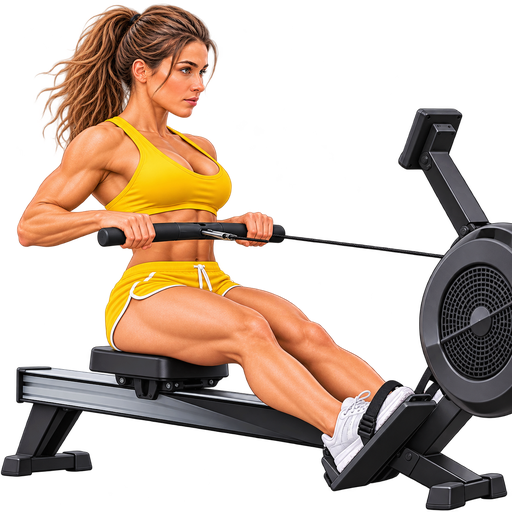
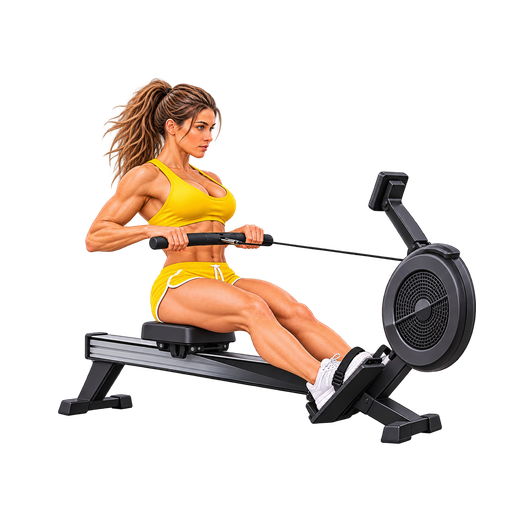
Version 1.6.23 - Supprimer une séance de l'historique (purge de la sauvegarde Drive), nouvelle icône du rameur
Claude-Session: https://claude.ai/code/session_018mcED6hExZoYpNzECwrRGX

diff --git a/app.js b/app.js
@@ -1484,6 +1484,7 @@ function injectSessionModalHtml() {
         <h3 id="modal-session-title" class="modal-title">Séance</h3>
         <p id="modal-session-meta" class="modal-meta"></p>
         <button id="modal-edit-btn" class="btn">Modifier la séance</button>
+        <button id="modal-delete-btn" class="btn btn-danger" onclick="deleteSelectedSession()">Supprimer la séance</button>
         <button onclick="closeSessionModal()" class="btn btn-secondary">Fermer</button>
       </div>
     </div>
@@ -1509,6 +1510,40 @@ function injectSessionModalHtml() {
       alert(`Séance ${sessionToEdit.type} du ${formatDate(sessionToEdit.date)} chargée dans le formulaire. Corrigez-la puis validez, ou annulez : l'originale reste intacte tant que vous n'avez pas validé.`);
     }
   });
+}
+
+// Suppression d'une séance de l'historique (essai de validation, saisie par erreur...).
+// Les dernières charges sont recalculées, la prochaine séance repart de l'historique restant, et la
+// sauvegarde Google Drive est mise à jour : la séance supprimée y est retirée (voir DRIVE_DELETED_KEY).
+function deleteSelectedSession() {
+  if (selectedSessionIndex === null) return;
+  const idx = selectedSessionIndex;
+  const session = state.history[idx];
+  if (!session) return;
+  const driveOn = isDriveWanted() || !!getDriveToken();
+  if (!confirm(`Supprimer définitivement la séance ${session.type} du ${formatDate(session.date)} ?` + (driveOn ? '\nElle sera aussi retirée de la sauvegarde Google Drive.' : ''))) return;
+
+  state.history.splice(idx, 1);
+  if (session.id !== undefined && session.id !== null) rememberDeletedSessionId(session.id);
+
+  // Dernières charges : on repart de l'historique restant pour les exercices de la séance supprimée
+  if (!state.lastWeights) state.lastWeights = {};
+  (session.exercises || []).forEach(ex => {
+    if (isCardioName(ex.name)) return;
+    delete state.lastWeights[ex.name];
+    state.history.forEach(h => {
+      const e = (h.exercises || []).find(x => x.name === ex.name);
+      if (e && Array.isArray(e.sets)) e.sets.filter(isPerformedSet).forEach(st => { state.lastWeights[ex.name] = st.weight; });
+    });
+  });
+
+  updateNextTypeFromHistory();
+  saveState();
+  backupToDrive();
+  closeSessionModal();
+  renderHistory();
+  renderCharts();
+  displayDeloadNotificationIfNeeded();
 }
 
 function openSessionModal(index) {
@@ -2873,10 +2908,20 @@ async function downloadDriveBackup(accessToken, fileId) {
 }
 
 // Vrai si la sauvegarde du Drive ne contient aucune séance absente de cet appareil (on peut alors l'écraser sans rien perdre).
+// Séances supprimées volontairement dans l'historique et pas encore retirées de la sauvegarde Drive.
+const DRIVE_DELETED_KEY = 'h49_drive_deleted_ids';
+function getDeletedSessionIds() {
+  try { const a = JSON.parse(localStorage.getItem(DRIVE_DELETED_KEY) || '[]'); return Array.isArray(a) ? a : []; } catch (e) { return []; }
+}
+function rememberDeletedSessionId(id) {
+  try { const a = getDeletedSessionIds(); if (!a.includes(id)) a.push(id); localStorage.setItem(DRIVE_DELETED_KEY, JSON.stringify(a)); } catch (e) { /* ignoré */ }
+}
+
 function driveRemoteIsContainedInLocal(remote) {
   if (!remote || !Array.isArray(remote.history) || !state || !Array.isArray(state.history)) return false;
   const local = new Set(state.history.map(h => h && h.id));
-  return remote.history.every(h => h && local.has(h.id));
+  const deleted = new Set(getDeletedSessionIds()); // supprimées exprès : ce n'est pas un conflit, la sauvegarde doit les purger
+  return remote.history.every(h => h && (local.has(h.id) || deleted.has(h.id)));
 }
 
 // Écrit la sauvegarde : met à jour le fichier existant (fileId) ou le crée ; renvoie la réponse de Google.
@@ -2955,6 +3000,7 @@ async function syncDriveBackup() {
     clearDriveError();
     localStorage.setItem(DRIVE_LAST_HASH_KEY, driveHash(snapshot));
     localStorage.setItem(DRIVE_LAST_BACKUP_KEY, new Date().toISOString());
+    try { localStorage.removeItem(DRIVE_DELETED_KEY); } catch (e) { /* ignoré */ }
     return { ok: true };
   } catch (e) {
     console.warn('Drive : envoi de la sauvegarde interrompu', e);

diff --git a/style.css b/style.css
@@ -224,6 +224,7 @@ nav button.active.has-update::after { right: 5px; top: 6px; }
 .btn { width: 100%; height: 56px; margin-top: 10px; padding: 0 16px; display: flex; align-items: center; justify-content: center; background: var(--primary-strong); color: var(--on-strong); border: none; border-radius: 28px; box-shadow: var(--sh-btn); font-size: 1.0625rem; font-weight: 700; cursor: pointer; }
 .btn:active { opacity: 0.8; }
 .btn-secondary { height: 52px; margin-top: 8px; background: var(--fill); color: var(--text); border: none; box-shadow: none; font-weight: 600; }
+.btn-danger { height: 52px; margin-top: 8px; background: var(--fill); color: var(--danger); border: none; box-shadow: none; font-weight: 600; }
 
 /* Champs */
 select.filter-select { width: 100%; height: 52px; margin-bottom: 8px; padding: 0 20px; background: var(--fill); border: none; border-radius: var(--radius-field); color: var(--text); font-size: 0.9425rem; }

diff --git a/sw.js b/sw.js
@@ -2,7 +2,7 @@
 // APP_VERSION doit être incrémenté à chaque release (en même temps que
 // manifest.json) : le navigateur ne réinstalle le service worker que si
 // le contenu de ce fichier change.
-const APP_VERSION = '1.6.22';
+const APP_VERSION = '1.6.23';
 const CACHE_NAME = 'suivi-fitness-' + APP_VERSION;
 const ASSETS = [
   './',

diff --git a/tests/test_supprimer_seance.py b/tests/test_supprimer_seance.py
@@ -1,0 +1,72 @@
+"""Suppression d'une séance de l'historique : l'historique, les dernières charges et la sauvegarde Google Drive suivent."""
+import json, sys
+from harness import *
+from drive_mock import FakeDrive
+import test_drive_sauvegarde_helpers as H
+from test_drive_sauvegarde_helpers import run, VALID, FOLDER, BKID, N, DATA, local_state
+
+res = []
+
+
+def check(name, ok, extra=''):
+    ok = bool(ok); res.append(ok)
+    print(('OK   ' if ok else 'ÉCHEC'), name, str(extra)[:230])
+
+
+with Srv() as base, sync_playwright() as p:
+    br = p.chromium.launch()
+    d0 = FakeDrive(folder=True, backup=DATA)
+    ctx, pg, dlg = run(br, base, d0, seeds=[VALID, FOLDER, BKID], confirm=False)
+    pg.wait_for_timeout(1500); up0 = d0.uploads()
+    pg.evaluate("switchTab('historique'); openSessionModal(%d)" % (N - 1)); pg.click('#modal-delete-btn'); pg.wait_for_timeout(500)
+    check('confirmation refusée : séance conservée, rien envoyé', len(local_state(pg)['history']) == N and d0.uploads() == up0)
+    ctx.close()
+
+    d = FakeDrive(folder=True, backup=DATA)
+    ctx, pg, dlg = run(br, base, d, seeds=[VALID, FOLDER, BKID])
+    pg.wait_for_timeout(1500)
+    pg.evaluate("switchTab('historique')"); pg.wait_for_timeout(300)
+    last_idx = N - 1
+    sid = DATA['history'][-1]['id']; stype = DATA['history'][-1]['type']
+    has_del = pg.evaluate("(i)=>{openSessionModal(i);return !!document.getElementById('modal-delete-btn')}", last_idx)
+    check('la fiche séance propose « Supprimer la séance »', has_del)
+    dlg.clear()
+    pg.click('#modal-delete-btn'); pg.wait_for_timeout(3500)
+    st = local_state(pg)
+    check('confirmation mentionne la sauvegarde Drive', any('Drive' in m for t, m in dlg if t == 'confirm'), dlg)
+    check(f'séance supprimée de l\'historique local ({N} -> {N-1})', len(st['history']) == N - 1 and all(h['id'] != sid for h in st['history']))
+    c = d.content() or {}
+    check('sauvegarde Drive mise à jour : la séance en a disparu', len(c.get('history', [])) == N - 1 and all(h['id'] != sid for h in c.get('history', [])), len(c.get('history', [])))
+    check('toujours UN seul fichier (mise à jour, pas de doublon)', d.posts == 0 and d.patches >= 1, (d.posts, d.patches))
+    check('prochaine séance recalculée depuis l\'historique restant', st['nextType'] == {'A': 'B', 'B': 'C', 'C': 'A'}[st['history'][-1]['type']], st['nextType'])
+    check('l\'écran Historique est rafraîchi', f'{N-1} séance' in pg.inner_text('#history-count'), pg.inner_text('#history-count'))
+    check('liste des suppressions en attente vidée après envoi réussi', pg.evaluate("localStorage.getItem('h49_drive_deleted_ids')") is None)
+    check('aucune erreur JS', not (pg.evaluate("window.__err||null")))
+
+    # conflit : une séance supprimée exprès n'est pas un « conflit » (appareil sans repère de fichier)
+    r = pg.evaluate("""(sid)=>{
+      const remote={history:[...state.history, {id:sid}]};
+      const before=driveRemoteIsContainedInLocal(remote);
+      rememberDeletedSessionId(sid);
+      return [before, driveRemoteIsContainedInLocal(remote), driveRemoteIsContainedInLocal({history:[...state.history,{id:424242}]})];}""", sid)
+    check('sauvegarde contenant la séance supprimée : conflit sans suppression, accepté avec', r == [False, True, False], r)
+    ctx.close()
+
+    # dernières charges : repartent de l'historique restant
+    ctx, pg, errs = newpage(br, 390, 844, pref='light')
+    pg.on('dialog', lambda x: x.accept())
+    pg.goto(base + 'index.html'); pg.wait_for_timeout(800)
+    pg.evaluate("""()=>{ state.history.push({id:777,date:'2026-11-05',type:'A',isDeload:false,tonnage:9999,duration:'10 min',
+        exercises:[{name:'Presse à cuisses',sets:[{weight:300,reps:10}],maxWeight:300,totalVolume:3000}]});
+        state.lastWeights['Presse à cuisses']=300; saveState(); renderHistory(); switchTab('historique'); }""")
+    pg.wait_for_timeout(300)
+    pg.evaluate("openSessionModal(state.history.length-1)"); pg.click('#modal-delete-btn'); pg.wait_for_timeout(500)
+    lw = pg.evaluate("state.lastWeights['Presse à cuisses']")
+    prev = [h for h in DATA['history'] if any(e['name'] == 'Presse à cuisses' and any(s['weight'] > 0 and s['reps'] > 0 for s in e['sets']) for e in h['exercises'])]
+    exp = [s['weight'] for s in [e for e in prev[-1]['exercises'] if e['name'] == 'Presse à cuisses'][0]['sets'] if s['weight'] > 0 and s['reps'] > 0][-1] if prev else None
+    check('dernières charges recalculées (plus les 300 kg de l\'essai)', lw != 300 and lw == exp, (lw, exp))
+    check('aucune erreur JS (sans Drive)', not errs, errs)
+    br.close()
+
+print(f"\n {sum(res)} / {len(res)} contrôles OK")
+sys.exit(0 if all(res) else 1)

diff --git a/tests/test_drive_sauvegarde_helpers.py b/tests/test_drive_sauvegarde_helpers.py
@@ -1,0 +1,48 @@
+"""Google Drive : UNE sauvegarde complète (sauvegarde_complete.json) mise à jour à chaque modification, jamais dupliquée ;
+protection contre l'écrasement d'une sauvegarde plus complète ; restauration depuis Drive.
+Google Identity et l'API Drive sont simulés (aucun appel réseau réel)."""
+import json, sys
+from harness import *
+from drive_mock import FakeDrive
+
+
+
+
+
+N = len(DATA['history'])
+MOCK_GOOGLE = """
+window.__reqs=[]; window.__revoked=null;
+window.google={accounts:{oauth2:{
+  initTokenClient(cfg){ return {requestAccessToken(o){ window.__reqs.push(o||{});
+    setTimeout(()=>cfg.callback({access_token:'tokPOPUP', expires_in:3600}),30); }}; },
+  revoke(t,cb){ window.__revoked=t; if(cb)cb(); }}}};
+"""
+VALID = "localStorage.setItem('h49_drive_token', JSON.stringify({access_token:'tok1', expires_at: Date.now()+3600000}));localStorage.setItem('h49_drive_wanted','1');"
+EXPIRED = "localStorage.setItem('h49_drive_token', JSON.stringify({access_token:'old', expires_at: Date.now()-1000}));localStorage.setItem('h49_drive_wanted','1');localStorage.setItem('h49_drive_account', JSON.stringify({email:'jean@example.com',name:'J'}));"
+FOLDER = "localStorage.setItem('h49_drive_folder_id','F1');"
+BKID = "localStorage.setItem('h49_drive_backup_id','BK1');"
+STATUS = "switchTab('reglages'), document.getElementById('drive-status').textContent"
+ls = lambda pg, k: pg.evaluate("k=>localStorage.getItem(k)", k)
+local_state = lambda pg: json.loads(ls(pg, 'h49_state'))
+
+
+def run(br, base, drive, seeds=(), confirm=True, history=None):
+    ctx, pg, errs = newpage(br, 390, 844, pref='light')
+    pg.add_init_script(MOCK_GOOGLE)
+    if history is not None:
+        data = dict(DATA); data['history'] = history
+        pg.add_init_script("if(!localStorage.getItem('seeded_state')){localStorage.setItem('h49_state', %s);localStorage.setItem('seeded_state','1')}" % json.dumps(json.dumps(data)))
+    for sd in seeds:
+        pg.add_init_script("if(!sessionStorage.getItem('seed_done')){%s}" % sd)
+    pg.add_init_script("sessionStorage.setItem('seed_done','1')")
+    dialogs = []
+
+    def on_dialog(d):
+        dialogs.append((d.type, d.message))
+        d.accept() if (d.type != 'confirm' or confirm) else d.dismiss()
+    pg.on('dialog', on_dialog)
+    pg.route('**/www.googleapis.com/**', drive.handle)
+    pg.goto(base + 'index.html')
+    return ctx, pg, dialogs
+
+

diff --git a/tests/run_tests.py b/tests/run_tests.py
@@ -3,7 +3,7 @@ import subprocess, sys
 from pathlib import Path
 
 HERE = Path(__file__).resolve().parent
-TESTS = ['test_validation.py', 'test_rameur.py', 'test_annuler_seance.py', 'test_brouillon.py', 'test_poids_brouillon.py', 'test_chrono.py', 'test_mise_a_jour.py', 'test_reglages.py', 'test_drive_compte.py', 'test_drive_sauvegarde.py', 'test_drive_installee.py', 'test_mise_en_page.py']
+TESTS = ['test_validation.py', 'test_rameur.py', 'test_supprimer_seance.py', 'test_annuler_seance.py', 'test_brouillon.py', 'test_poids_brouillon.py', 'test_chrono.py', 'test_mise_a_jour.py', 'test_reglages.py', 'test_drive_compte.py', 'test_drive_sauvegarde.py', 'test_drive_installee.py', 'test_mise_en_page.py']
 
 echecs = []
 for t in TESTS:

diff --git a/CHANGELOG.md b/CHANGELOG.md
@@ -7,6 +7,17 @@ et ce projet respecte [Semantic Versioning](https://semver.org/spec/v2.0.0.html)
 
 ---
 
+## [1.6.23] - 2026-11-06
+### ✨ Nouveautés
+- **Supprimer une séance de l'historique** : bouton « Supprimer la séance » dans la fiche de la séance (avec confirmation). L'historique, les graphiques, les dernières charges proposées et la prochaine séance (A/B/C) sont recalculés.
+- **La sauvegarde Google Drive est mise à jour automatiquement** : la séance supprimée est retirée de `sauvegarde_complete.json`. Une suppression volontaire n'est jamais prise pour un conflit (liste `h49_drive_deleted_ids`, vidée après envoi réussi).
+
+### 🎨 Design
+- Nouvelle icône du rameur (`icons/rower.png`).
+- `manifest.json` et `APP_VERSION` (`sw.js`) alignés sur 1.6.23.
+
+---
+
 ## [1.6.22] - 2026-11-06
 ### 🐛 Corrections
 - **Service worker** : la liste du cache hors-ligne (`sw.js`) pointait vers `icons/rowing.png`, renommé `rower.png` ; le fichier manquant faisait échouer l'installation du service worker (pas de mise à jour ni de mode hors-ligne). Corrigé.

diff --git a/README.md b/README.md
@@ -2,7 +2,7 @@
 
 **Application PWA de suivi d'entraînement en salle de sport**
 
-[![Version](https://img.shields.io/badge/version-1.6.22-blue)](https://github.com/jeepalexander/suivi-fitness)
+[![Version](https://img.shields.io/badge/version-1.6.23-blue)](https://github.com/jeepalexander/suivi-fitness)
 [![License](https://img.shields.io/badge/license-MIT-green)]
 
 ---
